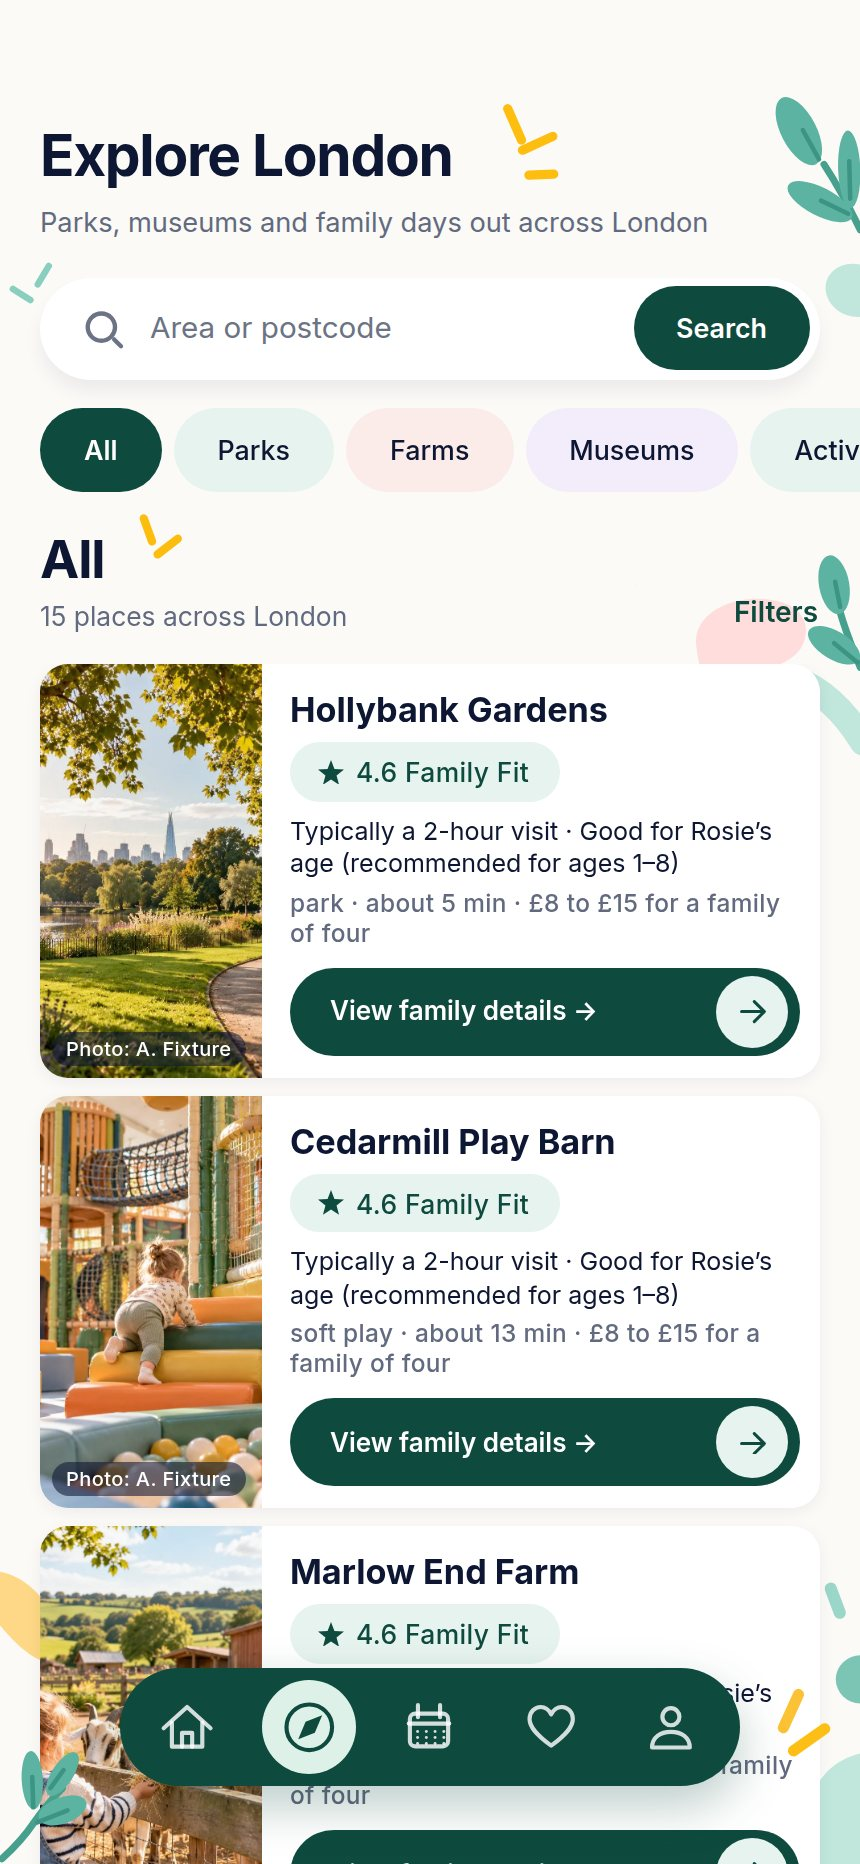
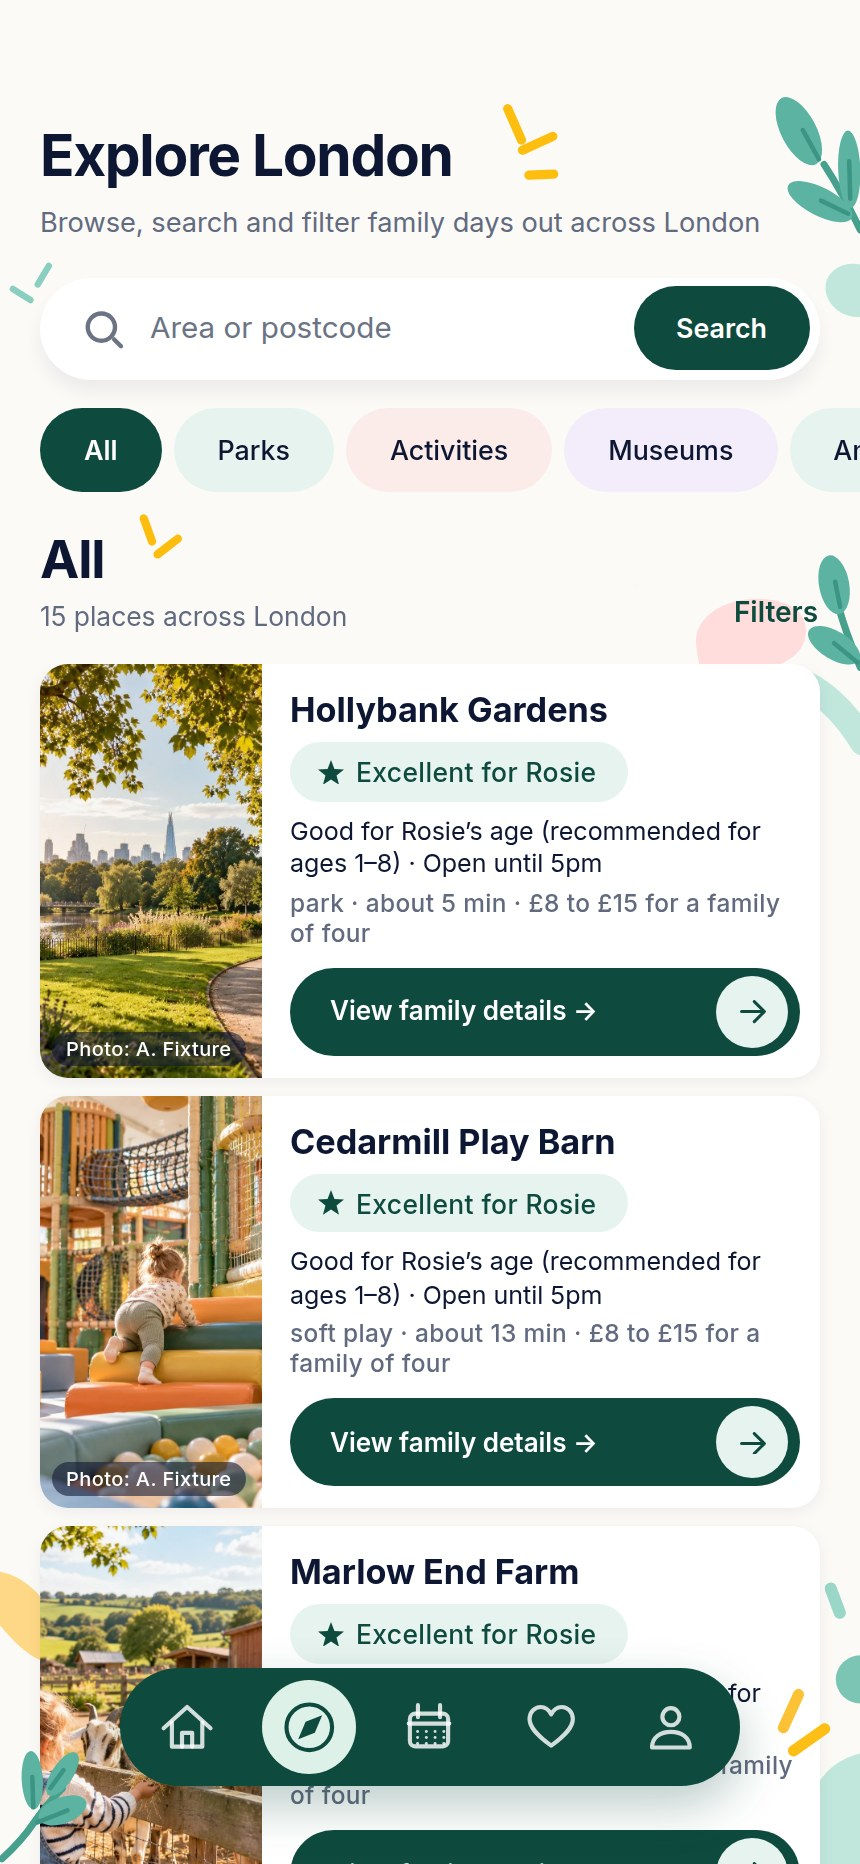
Housekeeping: correct stale photography docs, regenerate Explore evidence from current main
- docs/WELCOME_PHOTOGRAPHY.md, docs/PHOTOGRAPHY_ASSETS.md and one line of docs/FIGMA_APPROVED_FRAMES.md still said the seven
  Welcome images were not in the repository and asked for files that are installed. They now state that all seven Welcome images
  and the required fixture images are installed, keep the contracts and specs, and describe how to replace an image.
- Regenerated the realistic Explore evidence (the four app renders, the A/B/C/D board and the card strip) from a clean build of
  main at 92d727b, so the committed screenshots show the current Family Fit chips and the CategoryArt illustration for the
  NO PHOTO venues rather than the earlier gradient fallback.
- compare-canonical-screens.mjs: CAPTURE_NOW overrides its fixed clock (default unchanged), so the cards can be rendered on a
  morning when the fixture venues are open.

No production code changed. No aquarium fixture added.

Claude-Session: https://claude.ai/code/session_01B1rrDUPknqyRoBSdiYqTN3

diff --git a/docs/WELCOME_PHOTOGRAPHY.md b/docs/WELCOME_PHOTOGRAPHY.md
@@ -1,26 +1,28 @@
-# Welcome photography: the one outstanding asset dependency
+# Welcome photography: the contract and the installed images
 
-This is the complete handoff for the only visual dependency left on the approved Welcome frame (Figma
-`166:128`). Everything else on Welcome, Home and Explore is implemented.
+The approved Welcome frame (Figma `166:128`) is a collage of **seven photographic cut-outs**. The cut-out shapes,
+their positions, the white sticker edge and the decorative stickers over them are implemented exactly
+(`WELCOME_CUTOUTS`, `PhotoSlot`, `WELCOME_ART`).
 
-The Welcome frame is a collage of **seven photographic cut-outs**. The cut-out shapes, their positions, the
-white sticker edge and the decorative stickers over them are implemented exactly (`WELCOME_CUTOUTS`,
-`PhotoSlot`, `WELCOME_ART`), and the pipeline that draws a file inside each slot is wired and tested. **The
-seven images themselves are not in the repository yet.**
+**Status: all seven images are installed** in `familypilot/assets/images/welcome/` (`zoo`, `farm`, `cafe`, `crafts`,
+`soft-play`, `puddles`, `aquarium`), each within the 150 KB budget, imported in `src/assets/welcome-photos.ts` and
+recorded in `assets/images/welcome/CREDITS.md` as `Origin: generated`. They are bundled brand imagery: no runtime
+request, no provider call, no cost. This document remains the contract (crop, focal point, safe area, size, format)
+that any replacement or additional image must meet.
 
 * The photographs inside the Figma frame are *review-only crops of the owner's reference screenshot*. They are
   not licensed assets and must never ship. No app code or bundle references them.
 * Welcome is **brand / lifestyle imagery**, not evidence about a venue, so a licensed photograph **or a generated
   photograph** is appropriate here. (Home and Explore are the opposite: they show real venues and never use
   generated imagery as a venue's photograph. See `docs/PHOTOGRAPHY_ASSETS.md`.)
-* This environment cannot reach any photo host and has no image-generation capability, so the images are made
-  externally and supplied. The exact generation briefs are in `docs/PHOTOGRAPHY_ASSETS.md`.
+* The images were generated externally (this environment cannot reach a photo host or generate images) and
+  processed with `scripts/prepare-welcome-photos.mjs`. The generation briefs are in `docs/PHOTOGRAPHY_ASSETS.md`.
 
-Until the files below exist, each slot draws its category gradient inside its exact cut-out. That is a
-**temporary fallback**, never the finished screen. Nothing about the masks, the white edge, the stickers or the
-composition changes when the images arrive: each file is simply drawn inside its existing slot.
+A slot with no file would fall back to its category gradient inside its exact cut-out. That is only a defensive
+fallback, never the finished screen: `welcome-photos.test.ts` fails the build if any of the seven slots has no
+image, so production never ships a gradient in place of a photograph.
 
-## What is needed
+## What each image must be
 
 Seven images that read as **one photographic campaign**: premium but natural UK family-lifestyle photography, warm
 natural daylight, candid rather than posed, realistic skin, fur and material detail, playful without looking like
@@ -80,21 +82,22 @@ pixel size** (a little larger is fine; do not supply smaller). Dimensions are wi
   `aquarium.jpg` (lower case, hyphen in `soft-play`).
 * **Destination path:** `familypilot/assets/images/welcome/<filename>`.
 
-## How to ship them
+## Replacing or adding an image
 
-1. Put each file at `familypilot/assets/images/welcome/<slot>.jpg`.
-2. Add one line per file to `assets/images/welcome/CREDITS.md` (photographer, source, licence, model release if a
-   child is shown).
-3. Add the matching static `require` in `src/assets/welcome-photos.ts` (React Native needs each one written out).
-4. `npx vitest run src/__tests__/welcome-photos.test.ts` checks the file, the credit line, the size budget, and that
-   nothing is credited but unwired or wired but uncredited. The `todo` in that test names the slots still missing;
-   it passes once all seven ship.
-5. Rebuild, and review Welcome at 360, 393 and 430 (`scripts/compare-canonical-screens.mjs`): the real
-   photographs replace the gradients inside the same cut-outs, so nothing else on the screen should move.
+1. Prepare the file: `node scripts/prepare-welcome-photos.mjs <slot>=<source>` crops it to the slot's aspect around
+   the focal point, scales it, strips metadata and writes `familypilot/assets/images/welcome/<slot>.jpg` within the
+   size budget.
+2. Update that slot's line in `assets/images/welcome/CREDITS.md` (`Origin` is `photograph` or `generated`, the
+   creator or tool, the terms; a licence and a model release for any photograph that shows an identifiable child).
+3. `src/assets/welcome-photos.ts` already imports the slot; a new slot needs a static `import` there (Metro needs
+   each one written out).
+4. `npx vitest run src/__tests__/welcome-photos.test.ts` checks the file, the credit line, that the origin is stated,
+   the size budget, that nothing is credited but unwired or wired but uncredited, and that every slot has an image.
+5. Rebuild and review Welcome at 360, 393 and 430 (`scripts/compare-canonical-screens.mjs`); nothing else on the
+   screen should move.
 
-The photographs are brand artwork, bundled with the app: **no runtime request, no provider call, no cost**. They
-are drawn behind a decorative (`aria-hidden`) layer, so assistive technology skips them; the benefit cards,
-headline and button carry all the meaning.
+The photographs are drawn behind a decorative (`aria-hidden`) layer, so assistive technology skips them; the
+benefit cards, headline and button carry all the meaning.
 
 ## Alternative: one composed collage image
 

diff --git a/docs/PHOTOGRAPHY_ASSETS.md b/docs/PHOTOGRAPHY_ASSETS.md
@@ -7,7 +7,7 @@ FamilyPilot has **two different photography contracts**. They must not be confus
 | What the images are | Brand / lifestyle imagery | Photographs of **real venues** |
 | Generated imagery | **Appropriate** (or licensed photography) | **Never** presented as a venue's photograph |
 | Where it lives | `familypilot/assets/images/welcome/` (bundled) | The provider photo pipeline (proxy, cache, attribution) |
-| When there is none | Category gradient inside the cut-out (temporary fallback) | FamilyPilot category fallback, no credit |
+| When there is none | Category gradient inside the cut-out (defensive only: all seven slots are installed and a test fails if one is missing) | FamilyPilot category illustration (`CategoryArt`), no credit |
 | Test / demo stand-ins | None | **Synthetic fixture photography**, isolated, test server only |
 
 ## The production contract for real venues
@@ -32,10 +32,11 @@ deterministic fixture/demo/testing imagery, and clearly illustrative non-evident
   judged by eye. They are never shown for a real venue in production. The deliberate "no photo" fixture venues are
   not served an image at all.
 
-## What I need from you (the environment cannot generate images)
+## Specifications for replacing or adding an image
 
-Place the files exactly here. Nothing else is needed; I write the credit and manifest lines from the generator and
-prompt you tell me you used.
+**Nothing is outstanding.** Every Welcome slot and every required fixture image is installed. This section is the spec
+to use if an image is ever replaced or added (the environment cannot generate images, so they are made externally and
+processed with the `scripts/prepare-*.mjs` scripts). Each file goes exactly here, with its credit or manifest line.
 
 ### A. Welcome: 7 files, `familypilot/assets/images/welcome/`
 
@@ -55,16 +56,16 @@ aspect and downscaling is fine. Crop, focal point, off-screen bleed and safe are
 
 ### B. Fixtures: `familypilot/assets/images/fixtures/venues/`
 
-| File | Needed? | Used by |
+| File | Status | Used by |
 | --- | --- | --- |
-| `museum.jpg` | required | Home hero, Explore |
-| `park.jpg` | required | Home hero, Explore |
-| `soft_play.jpg` | required | Explore, Home |
-| `farm.jpg` | required | Explore, Home |
-| `attraction.jpg` | required | Explore, Home |
-| `zoo.jpg` | strongly preferred | one fixture venue (flat colour scene until it exists) |
-| `activity.jpg` | strongly preferred | two fixture venues (flat colour scene until it exists) |
-| `aquarium.jpg` | optional | not used by the current fifteen |
+| `museum.jpg` | installed | Home hero, Explore |
+| `park.jpg` | installed | Home hero, Explore |
+| `soft_play.jpg` | installed | Explore, Home |
+| `farm.jpg` | installed | Explore, Home |
+| `attraction.jpg` | installed | Explore, Home |
+| `zoo.jpg` | installed | one fixture venue |
+| `activity.jpg` | installed | two fixture venues |
+| `aquarium.jpg` | optional, not installed | not used by the current fifteen venues; not needed |
 | `<category>-b.jpg`, `<category>-c.jpg` | optional | variety between venues of one category |
 
 Landscape 4:3, **1600 x 1200 px**, JPEG sRGB, **at most 400 KB each**.
@@ -144,12 +145,13 @@ Prepend this instead of the lifestyle block:
 8. **`aquarium`** (optional). A large, softly lit aquarium tunnel with a school of fish and a turtle overhead,
    a child silhouetted looking up; blue light; no signage.
 
-## What happens when the files arrive
+## When an image is replaced or added
 
-1. Welcome: copy the seven files, add `Origin: generated` credit lines to `assets/images/welcome/CREDITS.md`, add the
-   seven `require` lines to `src/assets/welcome-photos.ts`; the todo in `welcome-photos.test.ts` then passes.
-2. Fixtures: copy the files, add a `synthetic: true` entry for each to
-   `assets/images/fixtures/venues/manifest.json`; the fixture server (realistic scenario) serves them per category.
+1. Welcome: prepare the file with `scripts/prepare-welcome-photos.mjs`, update its `Origin: generated` (or
+   `photograph`) line in `assets/images/welcome/CREDITS.md`, and import it in `src/assets/welcome-photos.ts`;
+   `welcome-photos.test.ts` checks it.
+2. Fixtures: prepare the file with `scripts/prepare-fixture-photos.mjs`, which records a `synthetic: true` entry in
+   `assets/images/fixtures/venues/manifest.json`; the fixture server (realistic scenario) serves it per category.
 3. Rebuild, regenerate the realistic Home, Explore (full, partial, unreviewed, long name, no photo) and Welcome
    renders at 360/393/430, the canonical A/B/C/D boards, and run the full regression with the zero-spend tripwires.
    The "no photo" fixtures keep the category fallback on purpose.

diff --git a/docs/FIGMA_APPROVED_FRAMES.md b/docs/FIGMA_APPROVED_FRAMES.md
@@ -85,8 +85,8 @@ Differences between the real app and the frames, classified:
 4. **Accessibility-driven, small** — the placeholder, footnote and link grey (`text.tertiary`) is `#6B7384`, not the
    frame's lighter grey, to reach 4.5:1; a keyboard focus ring on the search field; the Explore category rail and the
    Plan tabs expose their selected state to assistive technology.
-5. **Outstanding asset** — Welcome's seven photographs (see `docs/WELCOME_PHOTOGRAPHY.md`). Slots draw the category
-   gradient inside the exact cut-outs until licensed photographs ship.
+5. **Welcome photography** — installed: all seven images (generated brand imagery, credited in
+   `assets/images/welcome/CREDITS.md`) are drawn inside the exact cut-outs (see `docs/WELCOME_PHOTOGRAPHY.md`).
 6. **Genuine fidelity defects** — none open at 393.
 
 Decisions that used to be deviations and are now the frames' own: the nav is two variants (290 on Home, 310 on
